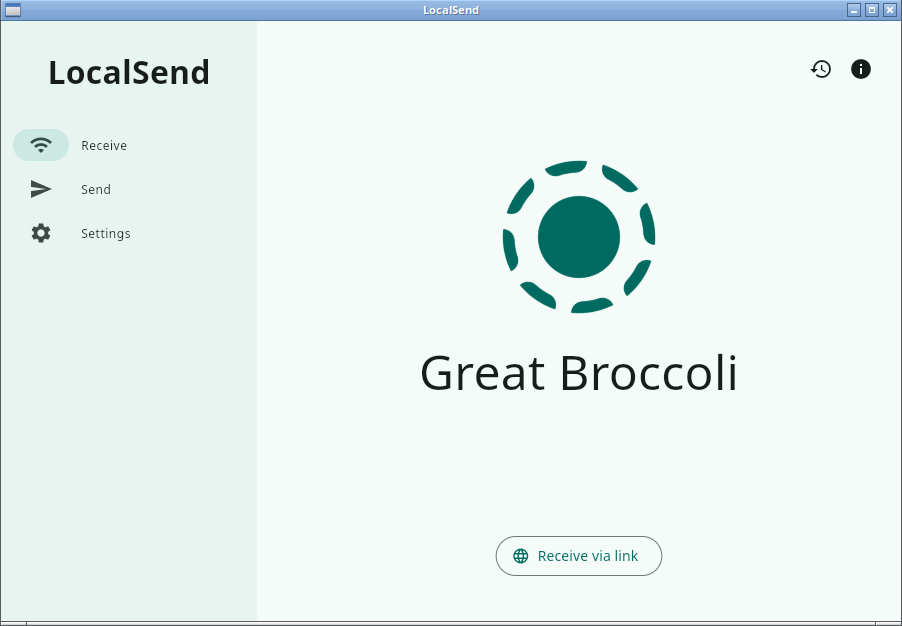
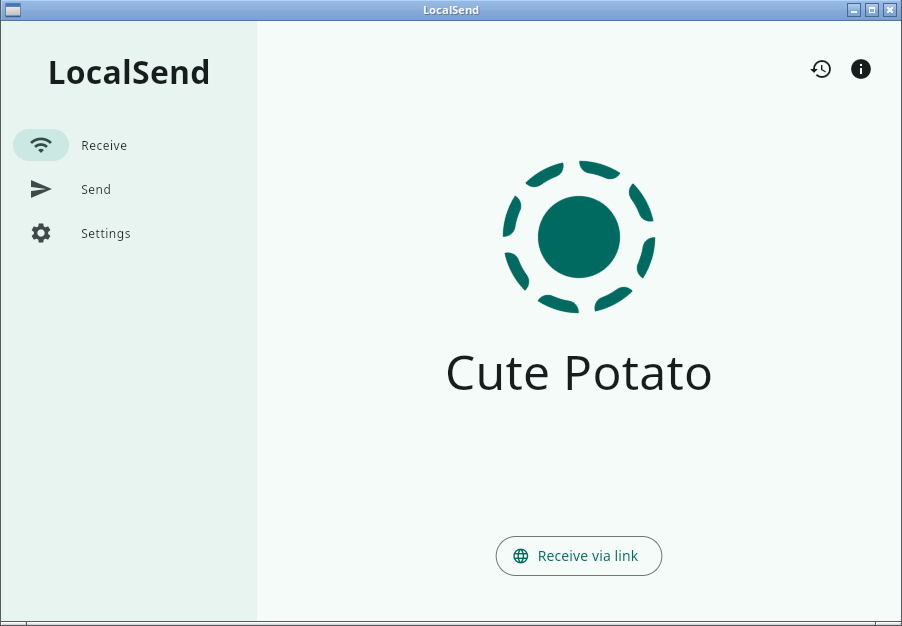
Complete the hosted v2 handoff and recurrence evidence

Changed region(s): [[0.4656, 0.5463, 0.8381, 0.6374], [0.5588, 0.2428, 0.745, 0.516]]

diff --git a/verification/v2/README.md b/verification/v2/README.md
@@ -29,6 +29,7 @@ The five updated jobs repeated the normal-closure check. All returned HTTP 530 t
 | macOS | CotEditor, AppKit and SwiftUI | AX found the editor and returned the text. Native window resize and focus changed actual bounds. Paste, copy, and save preserved the exact text. | [Run](https://github.com/ui-test-actions/ui-test-actions/actions/runs/44684822788) · [Evidence](macos/) · [Earlier native dialog run](https://github.com/ui-test-actions/ui-test-actions/actions/runs/44683446564) |
 | Linux | Notepad Next, Qt and Scintilla | Clipboard, replacement, native file selection, context menu, resize, and save. Exact text passed persistence and copy-back. | [Run](https://github.com/ui-test-actions/ui-test-actions/actions/runs/44685999727) · [Evidence](linux/) |
 | Linux | Mousepad, GTK and GtkSourceView | Arabic-localized menus and mixed-direction text. AT-SPI found the editable node, returned the exact multiline text, and invoked the visible Save menu item. The native chooser opened a staged file whose exact contents appeared in the editor. | [Run](https://github.com/ui-test-actions/ui-test-actions/actions/runs/44689388056) · [Evidence](gtk/) |
+| Linux | LocalSend, Flutter | Changed the locale and confirmed the mirrored Arabic layout. Entered the mixed-direction alias, restarted the receiver, and checked its displayed name and portable settings independently. | [Run](https://github.com/ui-test-actions/ui-test-actions/actions/runs/44697310688) · [Evidence](flutter-linux/) |
 | Linux | draw.io, browser JavaScript and SVG | Replaced a diagram object's label with Arabic, English, Arabic-Indic digits, and emoji. Dragged the object and saved through Chrome's native file dialog. The job decoded the saved diagram and confirmed the exact label and move from `[120, 120]` to `[340, 240]`. | [Run](https://github.com/ui-test-actions/ui-test-actions/actions/runs/44693746703) · [Evidence and saved diagram](drawio/) |
 | Android | Markor, AndroidX native editor and WebView | Granted storage through the visible permission UI, edited with the native test IME, saved and reopened the document, inspected both editor and preview, and verified exact text. | [Run](https://github.com/ui-test-actions/ui-test-actions/actions/runs/44683446672) · [Evidence](android/) |
 | iOS | Thought Meadow, SwiftUI | Entered Arabic and mixed Unicode into a real note, switched to Markdown preview, and filtered the saved note with an Arabic query. | [Run](https://github.com/ui-test-actions/ui-test-actions/actions/runs/44683446537) · [Evidence](ios/) |
@@ -54,6 +55,8 @@ Notepad Next returned an empty AT-SPI observation in the hosted Qt AppImage. It 
 The Windows recovery run was intentionally cancelled after its process checks. An independent Linux session's token and a missing bearer each returned HTTP 401 on Windows. The Windows session's own token returned HTTP 200 before cancellation and HTTP 530 about eight seconds after the cancellation request. Normal expiry was checked on separate successful workflow runs. [Cancellation trace](process-recovery/windows/cancellation.json)
 
 The first v2 Linux session ran for 60 minutes and 0.797 seconds between the runner's ready and closed log entries. A fresh client changed the Tk fixture's visible label during the last minute. The Tk entry kept earlier text because its X11 shortcut and paste semantics differ. The HTTPS endpoint returned 530 around the deadline. The runner and external clocks differed by roughly ten seconds, so compare actual session time with the runner's monotonic timer and use `seconds_remaining` during live observation. [Runner](https://github.com/ui-test-actions/ui-test-actions/actions/runs/44685158477) · [Hour trace and screenshots](hour-initial/)
+
+The repeat Linux session used `803d83d50713f845db414c30c7c826071ede907c` and its fail-closed heartbeat. It ran for 60 minutes and 0.909 seconds by the runner's log. Fresh clients repeatedly identified the same session. With 27 seconds remaining, the client verified a new label and copied the exact Arabic and English value back from the app after setting a different clipboard sentinel. The endpoint returned HTTP 530 with valid authentication after shutdown. The later five-platform pin retains this heartbeat and expiry code. [Repeat hour run](https://github.com/ui-test-actions/ui-test-actions/actions/runs/44690683337) · [Repeat trace, timestamps, and screenshots](hour-repeat/)
 
 App screenshots may be cropped to the display or window containing the test. Connection artifacts and raw bearer values are excluded from this directory.
 
